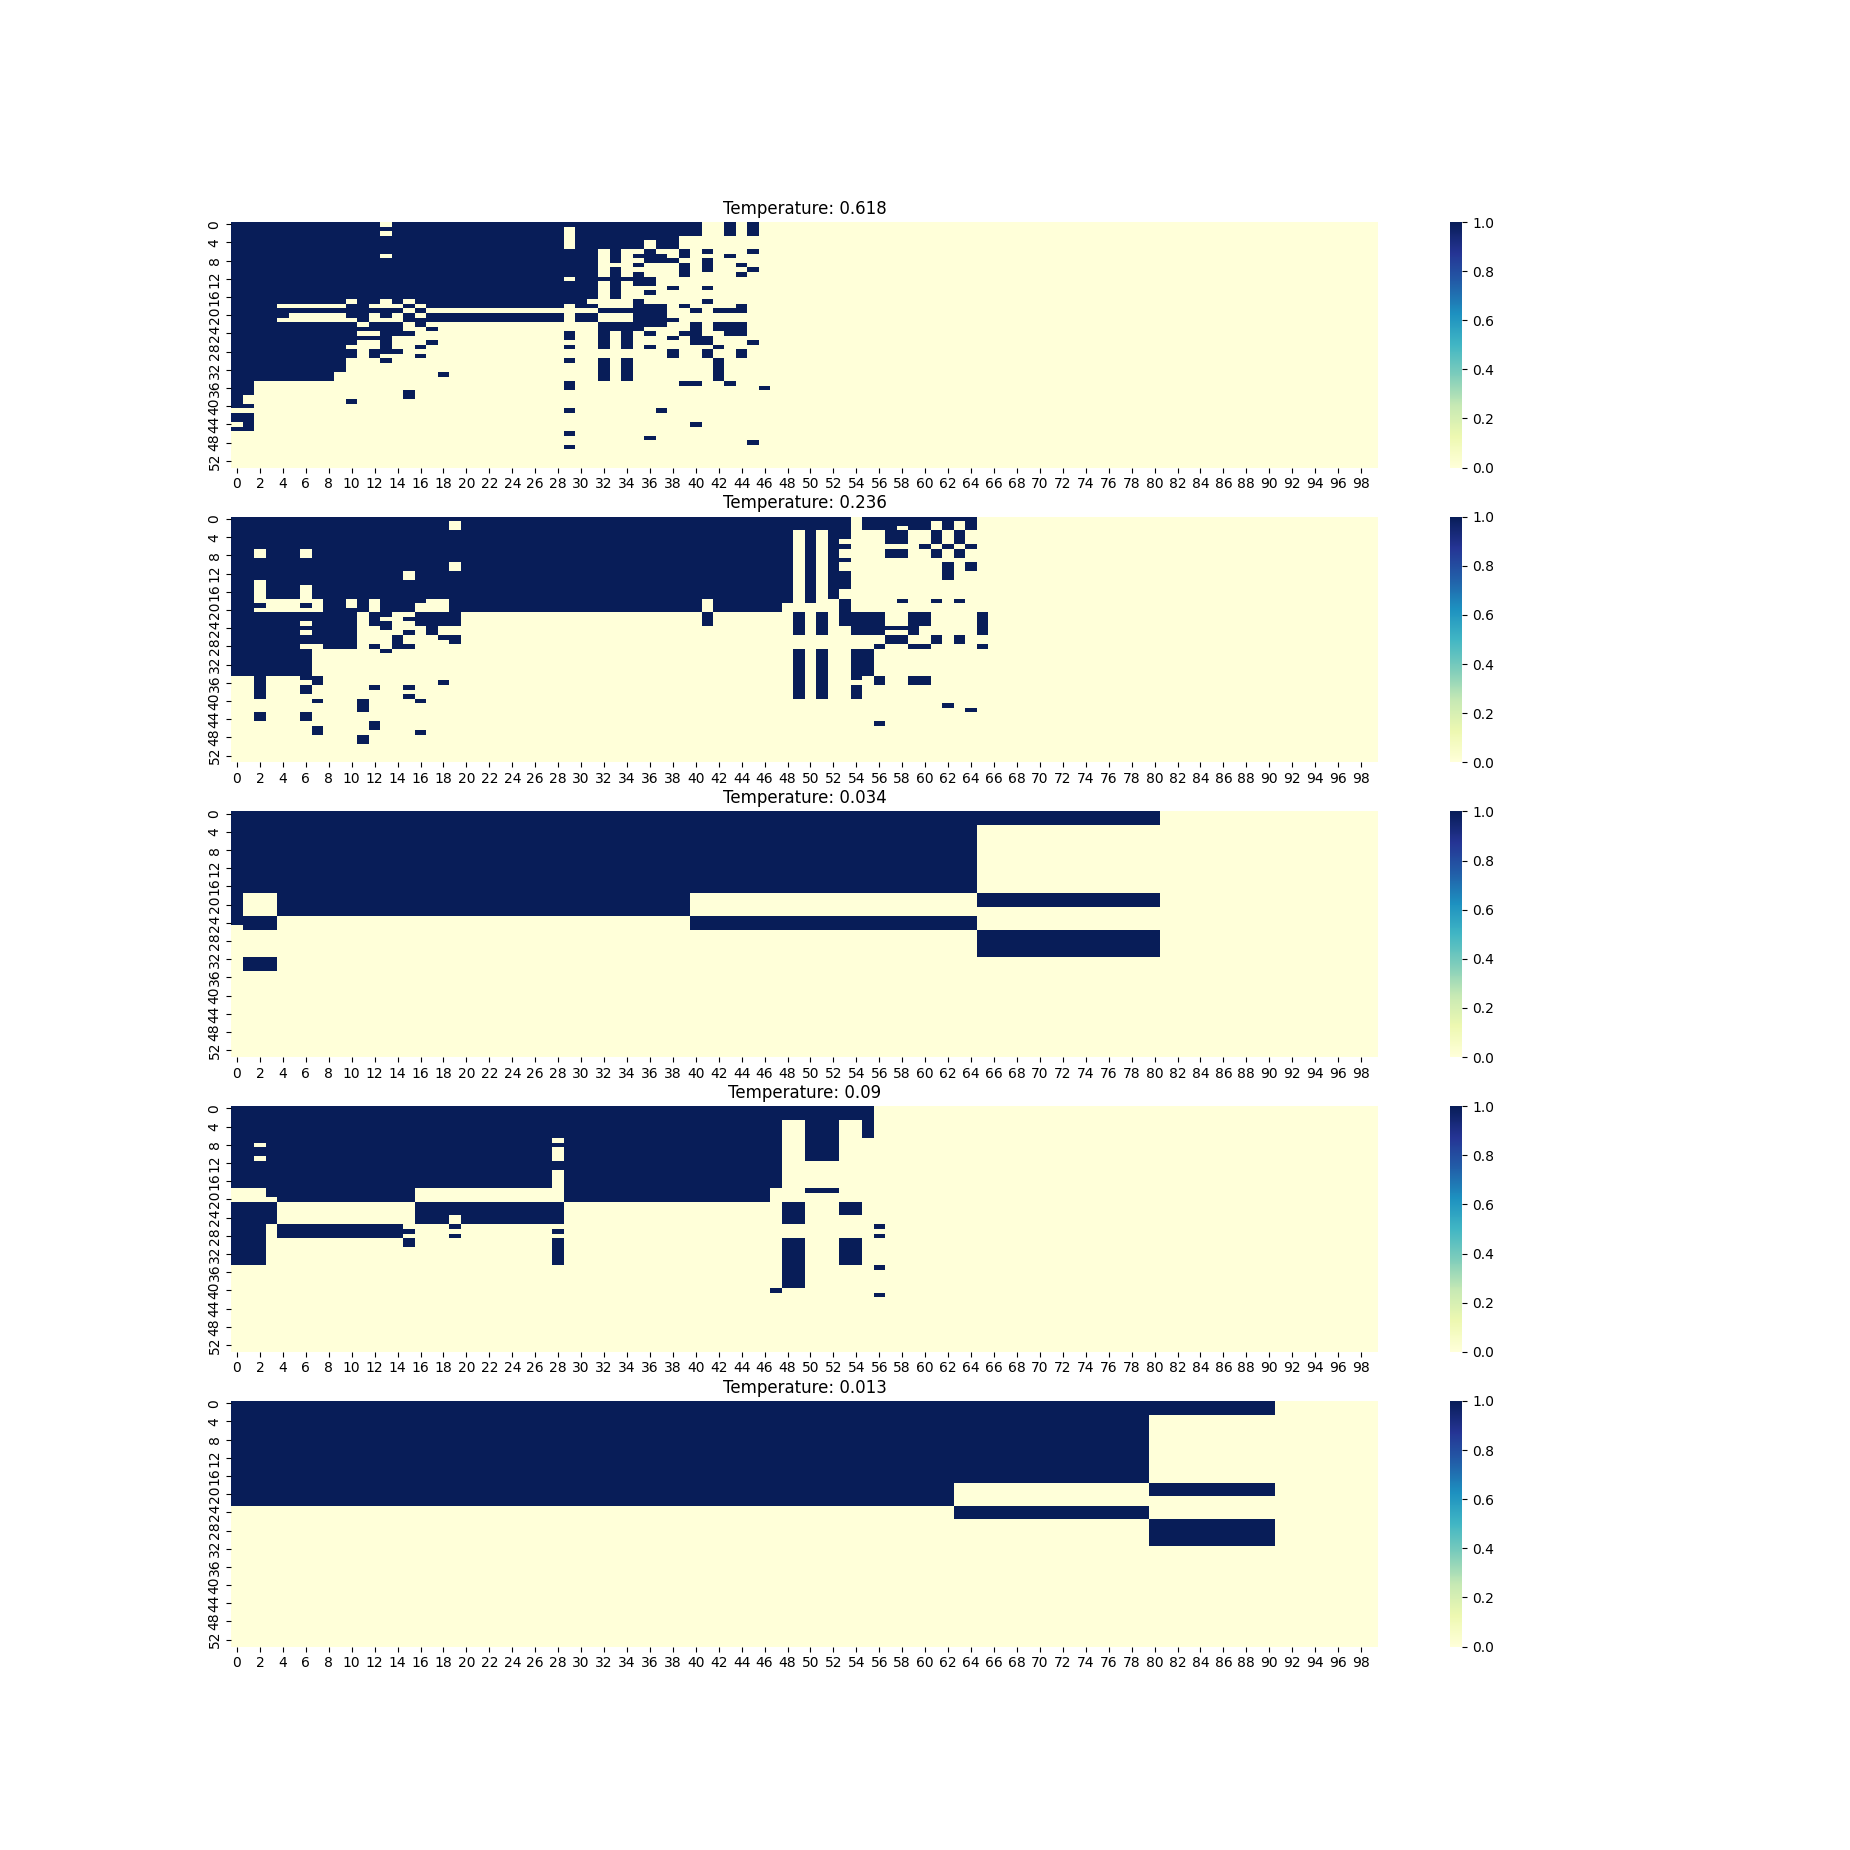
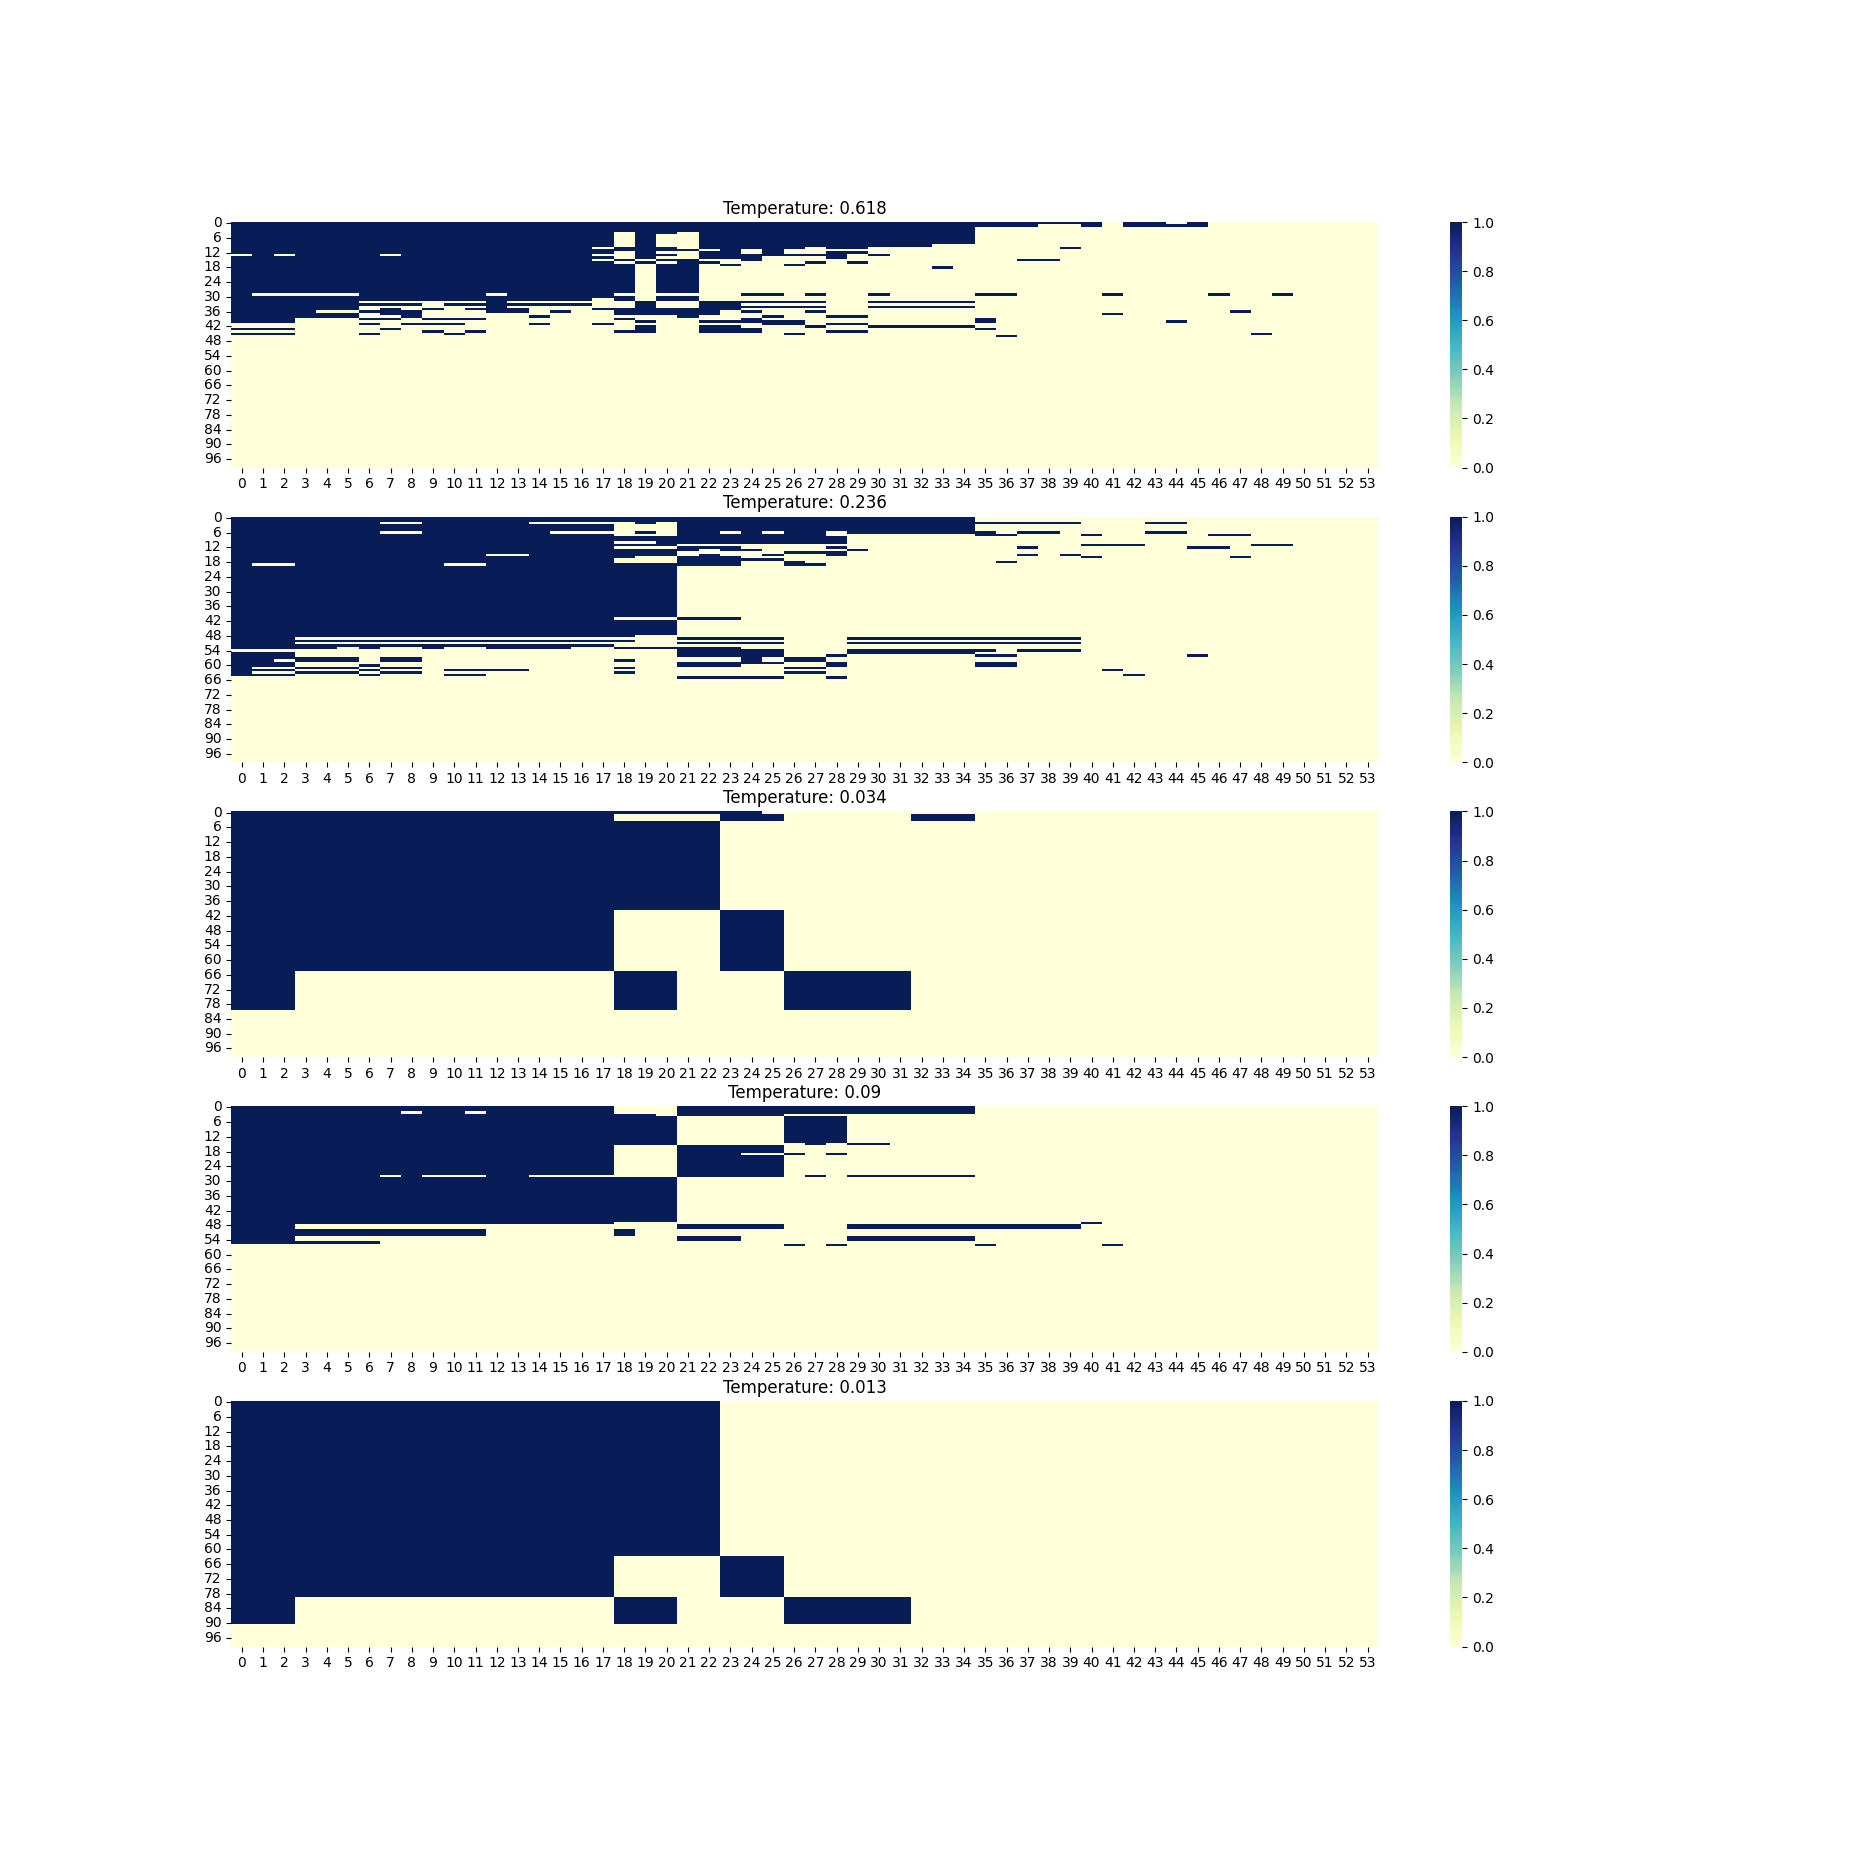
Added more ideas Dealing with numpy take_along_axis

diff --git a/eval/visualize-do-prompts-matter.py b/eval/visualize-do-prompts-matter.py
@@ -13,39 +13,37 @@ import matplotlib.pyplot as plt
 buckets = defaultdict(int)
 bucket_by_test_case = defaultdict(int)
 
-# Observation: 
-# The dimensions of the graph don't correspond to the dimensions of the data
-# Usually the data is flattened out by the dimensionality of the subplots.
-# The data also contains another dimension for the FacetGrid, which in our case are temperature (column) and later prompt (row)
+from dataclasses import dataclass
 
+@dataclass
+class Observation:
+    temperature: float
+    # prompt: str
+    programIndex: int
+    
+# Observations need to be sorted - so the indexes of the programs that actually show up 
+# will be different from the index of the original program.
+# TODO: Replace the indexes of programss in the graph by the original indexes to look them up.
+# Two maps:
+# originalProgramIndex -> new, originalTestCaseIndex -> new
+# Sort test cases and programs using numpy.argsort, they will give us the mapping that we 
+# can use to sort and later lookup
 
-# The structure is as follows:
-# Program 1, Temperature 1;  Program 2, Temperature 1;  ...; Program 1, Temperature 2;  Program 2, Temperature 2; ...
+# Can we sort the observations? So the final structure?
 
-# The following arrays are aligned with each other:
-# Test cases solved by 1, 1; Test cases solved by 2, 1; ...; Test cases solved by 1, 2; Test cases solved by 2, 2; ...
-# Temperature 1;             Temperature 1;             ...; Temperature 2;             Temperature 2; ...
+observations: typing.List[Observation] = []
+
+# I don't think we need this - we can just ommit the tests that are empty, they are not 
+# observations. We want "tidy-long form" data https://tinyurl.com/2ktdm9mf
+def pad_lists(input_list, default_value):
+    max_length = max(len(inner_list) for inner_list in input_list)
+    result = [inner_list + [default_value] * (max_length - len(inner_list)) for inner_list in input_list]
+    return result
+
 total_tests_passed_by_program = []
 temperatures_by_program = []
 
-# Found this here https://stackoverflow.com/questions/41471238/how-to-make-heatmap-square-in-seaborn-facetgrid
-# temperatures = 5
-# test_cases = 5
-# programs = 5
-
-# indices = pd.MultiIndex.from_product((range(temperatures), range(test_cases), range(programs)), names=('temperature', 'test case', 'program'))
-# data = pd.DataFrame(np.random.uniform(0, 100, size=len(indices)), index=indices, columns=('value',)).reset_index()
-# print(indices)
-# print(data)
-
-# def draw_heatmap(*args, **kwargs):
-#     data = kwargs.pop('data')
-#     d = data.pivot(index=args[1], columns=args[0], values=args[2])
-#     sns.heatmap(d, **kwargs)
-
-figure, axes = plt.subplots(5, 1)
-# Increase default figure size
-figure.set_size_inches(18.5, 18.5)
+temperature_by_program_by_test_cases = []
 
 for temperature_index, temperature in enumerate(["0.618", "0.236", "0.034", "0.09", "0.013"]):
     files = glob.glob(f"../generate/results/do-prompts-matter{{model=code-davinci-002,prompt=default,temp={temperature}]}}/*.result.json")
@@ -69,46 +67,26 @@ for temperature_index, temperature in enumerate(["0.618", "0.236", "0.034", "0.0
 
             tests_passed_by_program = sum(passing_tests)
             total_tests_passed_by_program.append(tests_passed_by_program)
-            temperatures_by_program.append(temperature)
 
             program_by_test_case.append(passing_tests)
-
-    
+            
     # Normalize the lists (so that they are all the same length), remember compliation erros and runtime erros
     # have lists of length 0 for test cases solved.
-    normalized_program_by_test_case = list(itertools.zip_longest(*program_by_test_case, fillvalue=False))
-    np_normalized_program_by_test_case = np.array(normalized_program_by_test_case)
+    temperature_by_program_by_test_cases.append(pad_lists(program_by_test_case, False))
+    
 
-    # Sort the rows by the number of test cases each program solves.
-    np_normalized_program_by_test_case = np_normalized_program_by_test_case[np.argsort(np.sum(np_normalized_program_by_test_case, axis=1))[::-1]]
+# Make it a numpy array so that we can use numpy functions on it
+temperature_program_tests = np.array(temperature_by_program_by_test_cases)
 
-    # Sort the columns by the number of programs that solve each test case.
-    np_normalized_program_by_test_case = np_normalized_program_by_test_case[:, np.argsort(np.sum(np_normalized_program_by_test_case, axis=0))[::-1]]
+# Sort the test cases by how many programs pass them
+how_many_programs_pass_a_test_across_all_temperatures = np.sum(temperature_program_tests, axis=(0, 1))
 
-    # Filter out the programs (rows) that solve no test cases.
-    # np_normalized_program_by_test_case = np_normalized_program_by_test_case[np.sum(np_normalized_program_by_test_case, axis=1) > 0]
+test_axis_order = np.argsort(how_many_programs_pass_a_test_across_all_temperatures)
+sorted_tests = np.take_along_axis(temperature_program_tests, test_axis_order[np.newaxis, np.newaxis, :], axis=2)
 
-    # Plot the heatmap by appending to the current plot.
+# Sort the programs by how many test cases they pass
 
-    # plt.figure(figsize=(20, 20))
-    axes[temperature_index].set_title(f'Temperature: {temperature}')
-    seaborn.heatmap(np_normalized_program_by_test_case, cmap="YlGnBu", ax=axes[temperature_index])
 
-    # print(np_normalized_program_by_test_case)
-
-    # test_stats_by_program.extend(list(np_normalized_program_by_test_case))
-    # temperatures_by_program_2.extend([temperature] * len(np_normalized_program_by_test_case))
-
-# Plot the heatmap first
-# heatmap_data = np.array(test_stats_by_program)
-# temperatures_for_each_heatmap = np.array(temperatures_by_program_2)
-# print(heatmap_data)
-# print(temperatures_for_each_heatmap)
-# df = pd.DataFrame(dict(heatmap_data=heatmap_data, temperatures_for_each_heatmap=temperatures_for_each_heatmap))
-
-# seaborn.set_theme(style="white", rc={"axes.facecolor": (0, 0, 0, 0)})
-# g = seaborn.FacetGrid(df, col="temperatures_for_each_heatmap", aspect=15, height=0.5, palette="tab20c")
-# g.map(seaborn.heatmap, "heatmap_data", linewidths=0.05, linecolor="white", cbar=False, vmin=0, vmax=1)
 
 # Save all temperatures to a single file, clear the plot
 plt.savefig("special-test-cases.png")

diff --git a/eval/playground.py b/eval/playground.py
@@ -1,0 +1,16 @@
+import numpy as np
+
+# Original array
+arr = np.array([[0, 1], 
+                [2, 3]])
+
+# Custom order for the 1th axis (columns)
+custom_order = np.array([1, 0])
+
+# Reorder the array along the 1th axis (columns) using the custom order
+reordered_arr = np.take_along_axis(arr, custom_order[np.newaxis, :], axis=1)
+
+print("Original array:")
+print(arr)
+print("Reordered array:")
+print(reordered_arr)

diff --git a/Log.md b/Log.md
@@ -6,10 +6,90 @@
 - Open review https://openreview.net/forum?id=Lr8cOOtYbfL
 - Rent GPUs https://brev.dev/
 
+# Wednesday 15
+
+## Numpy, take_along_axis
+
+The learing is that take_along_axis reorders the array along the given axis.
+As the indexes it needs the same shaped array as the input array.
+The indexes need to be the same shape as the input array, because each element can be shifted to a new location.
+
+For example
+
+```python
+[[0, 1],
+ [2, 3]]
+
+# To reorder columns we need
+[[1, 0],
+ [1, 0]]
+
+# For this case we don't need the outer dimension so we can use np.newaxis
+[1, 0][np.newaxis, :]
+# produces
+[[1, 0]]
+
+# [,] notation means adding a new axis, its a numpy thing, not python
+```
+
+````
+
+### Log
+
+Found this here https://stackoverflow.com/questions/41471238/how-to-make-heatmap-square-in-seaborn-facetgrid
+
+The dimensions of the graph don't correspond to the dimensions of the data
+Usually the data is flattened out by the dimensionality of the subplots.
+The data also contains another dimension for the FacetGrid, which in our case are temperature (column) and later prompt (row)
+
+The structure is as follows:
+Program 1, Temperature 1; Program 2, Temperature 1; ...; Program 1, Temperature 2; Program 2, Temperature 2; ...
+
+The following arrays are aligned with each other:
+Test cases solved by 1, 1; Test cases solved by 2, 1; ...; Test cases solved by 1, 2; Test cases solved by 2, 2; ...
+Temperature 1; Temperature 1; ...; Temperature 2; Temperature 2; ...
+
+I don't think we need this - we can just ommit the tests that are empty, they are not
+observations. We want "tidy-long form" data https://tinyurl.com/2ktdm9mf
+
 # Try next
+
+- Start writing what we did?
+- Do they have temperature for gpt2? Try running their models with the higher temperature.
+- [ploting] Add if the test case failed with wrong output vs runtime error - different color
+  - [optional] Additionally classify the runtime errors
+
+## Prompt engineering
+
+- Give more examples - see how many it needs to pass all
+  - Give it the ones it failed on, can it pass them now?
+  - Give all examples - easier. Best case.
+- Redo the prompt copletely - change the content, give different examples (generate?)
+
+## Good prefix
+
+- We can play with the temperature once we find a good prefix (rollout) with a high temperature. We want some creativity to stear the model, but we don't want the
+- Shorten the perfect solution and see if it complete it
+  - Shorten by AST node
+  - Splitting by certainty of the string, find equal split points
+
+## Token count
+
+- Fixed
+- AST
+- Uncertanty
+
+## Tools
+
+- Loom - researches are using it to visualize the tree
 
 TOP PRIORITY
 Open the file with the plot in vscode and just keep it open lol
+
+# Plotting
+
+I can't seem to create multi dimensional np array dataframes, hmm
+Maybe just skip the dataframe?
 
 ## Prompt experimentation
 
@@ -86,7 +166,7 @@ Traceback (most recent call last):
   File "/Users/kirilldubovitskiy/projects/Code-AI-Tree-Search/generate/../eval/utils.py", line 103, in hierarchy_pos
     raise TypeError('cannot use hierarchy_pos on a graph that is not a tree')
 TypeError: cannot use hierarchy_pos on a graph that is not a tree
-```
+````
 
 Results are not being written out
 Codex 2 is the most capable model ....??
